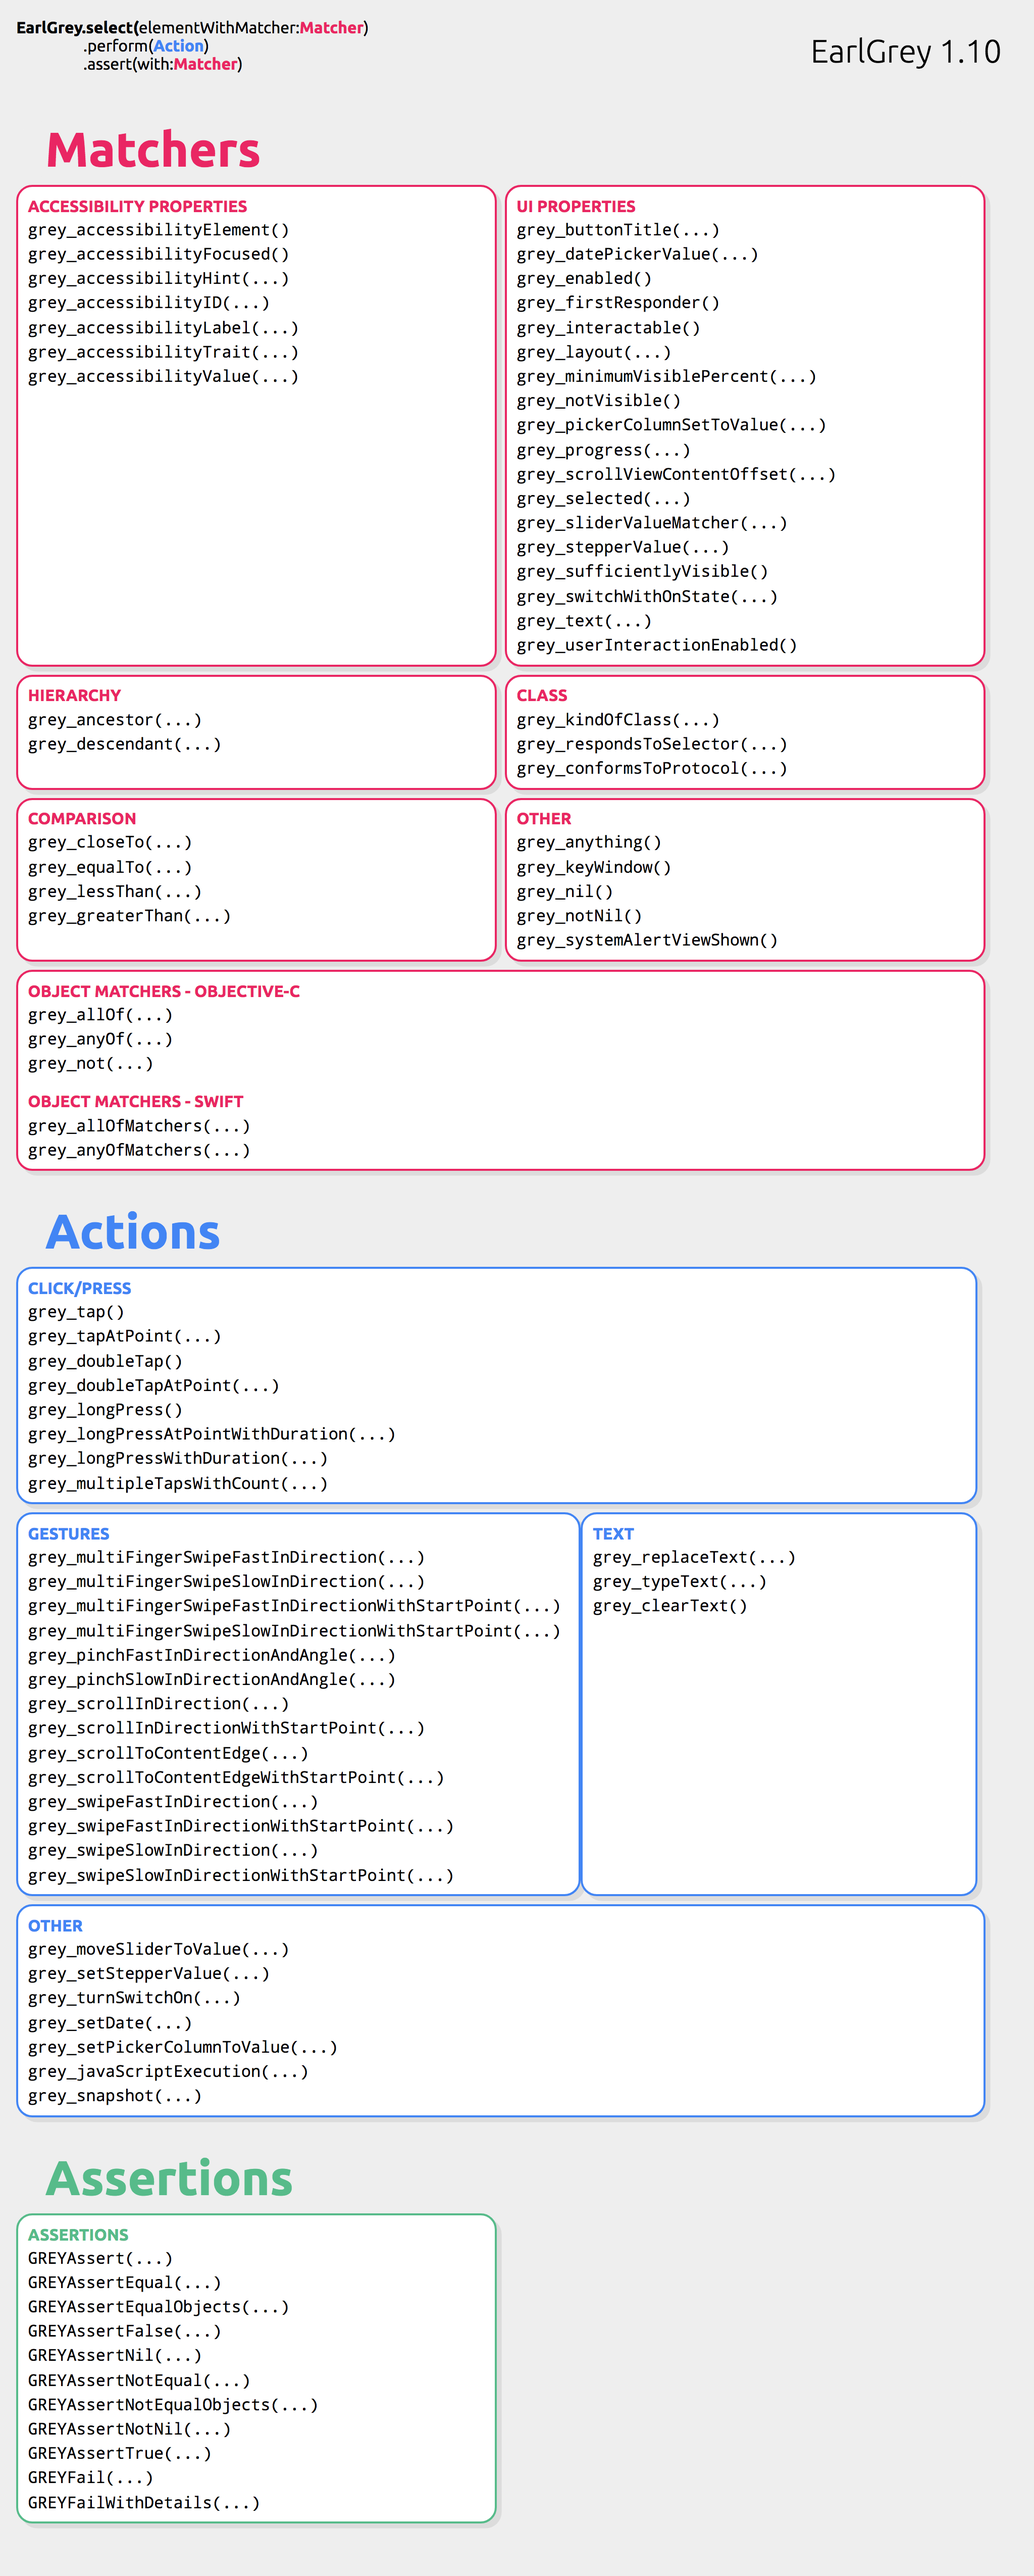
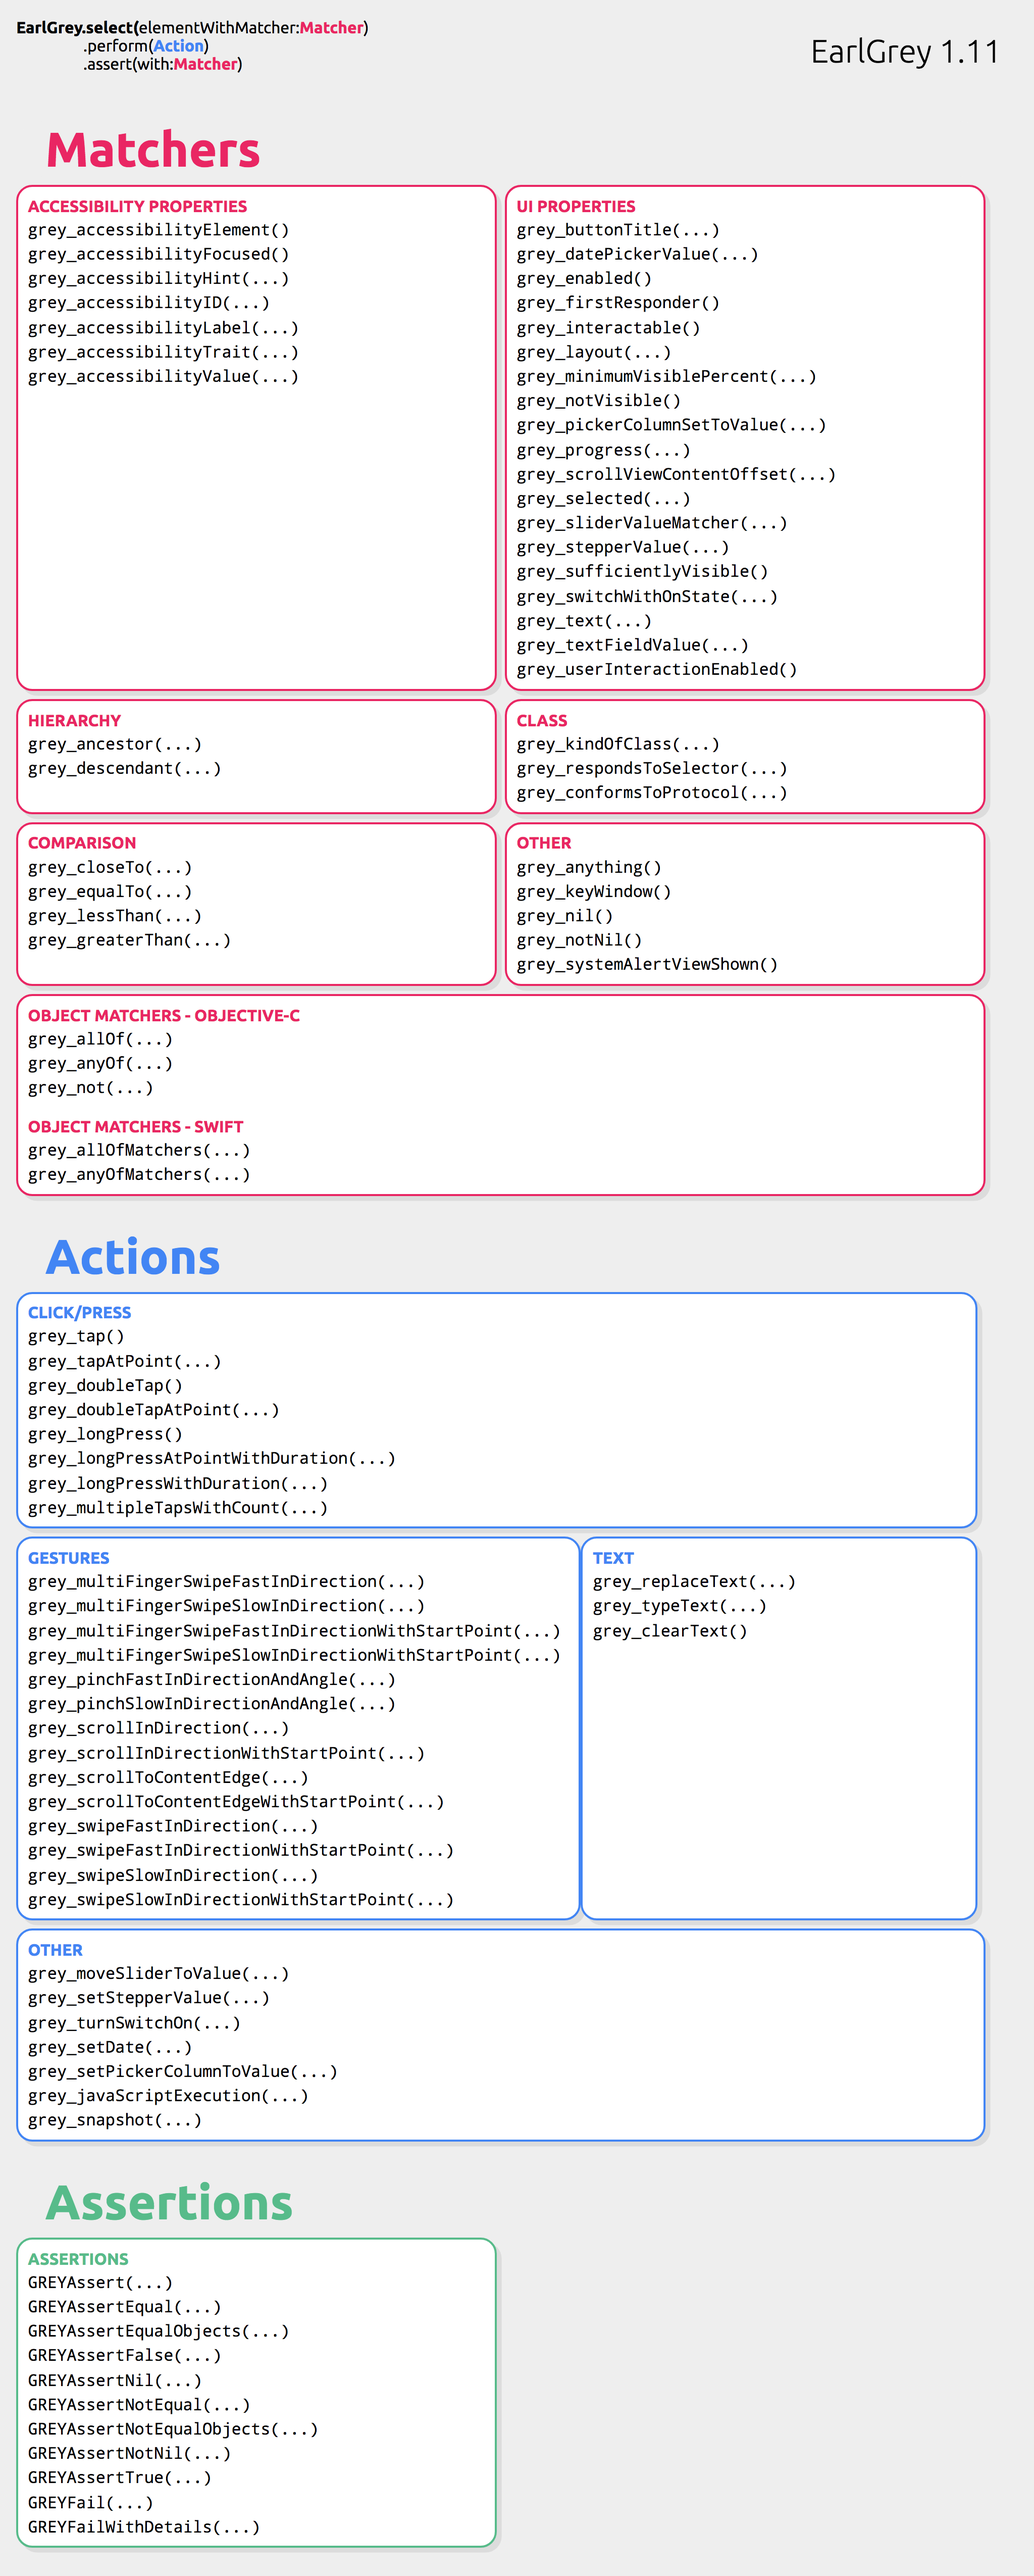
Update Cheatsheet and CHANGELOG for 1.11.0

Changed region(s): [[0.0, 0.53, 0.9688, 0.9976], [0.0, 0.2494, 0.9688, 0.53]]

diff --git a/docs/cheatsheet/cheatsheet.html b/docs/cheatsheet/cheatsheet.html
@@ -35,7 +35,7 @@ cheatsheet.png: Save as image from Chrome using https://chrome.google.com/websto
                   .assert(with:<span class="two">Matcher</span>)
 </div>
 <div class="EarlGreyTitle">
-EarlGrey 1.10
+EarlGrey 1.11
 </div>
 </div>
 

diff --git a/CHANGELOG.md b/CHANGELOG.md
@@ -5,8 +5,8 @@ Details changes in each release of EarlGrey. EarlGrey follows [semantic versioni
 ## [1.11.0](https://github.com/google/EarlGrey/tree/1.11.0) (07/21/2017)
 
 ```
-Baseline: [XXXXXXX]
-+ [XXXXXXX]: XXXXXX
+Baseline: [0d1086d]
++ [0d1086d]: Modify 1.10.2 -> 1.11.0 and update the CHANGELOG
 ```
 
 ### Enhancements
